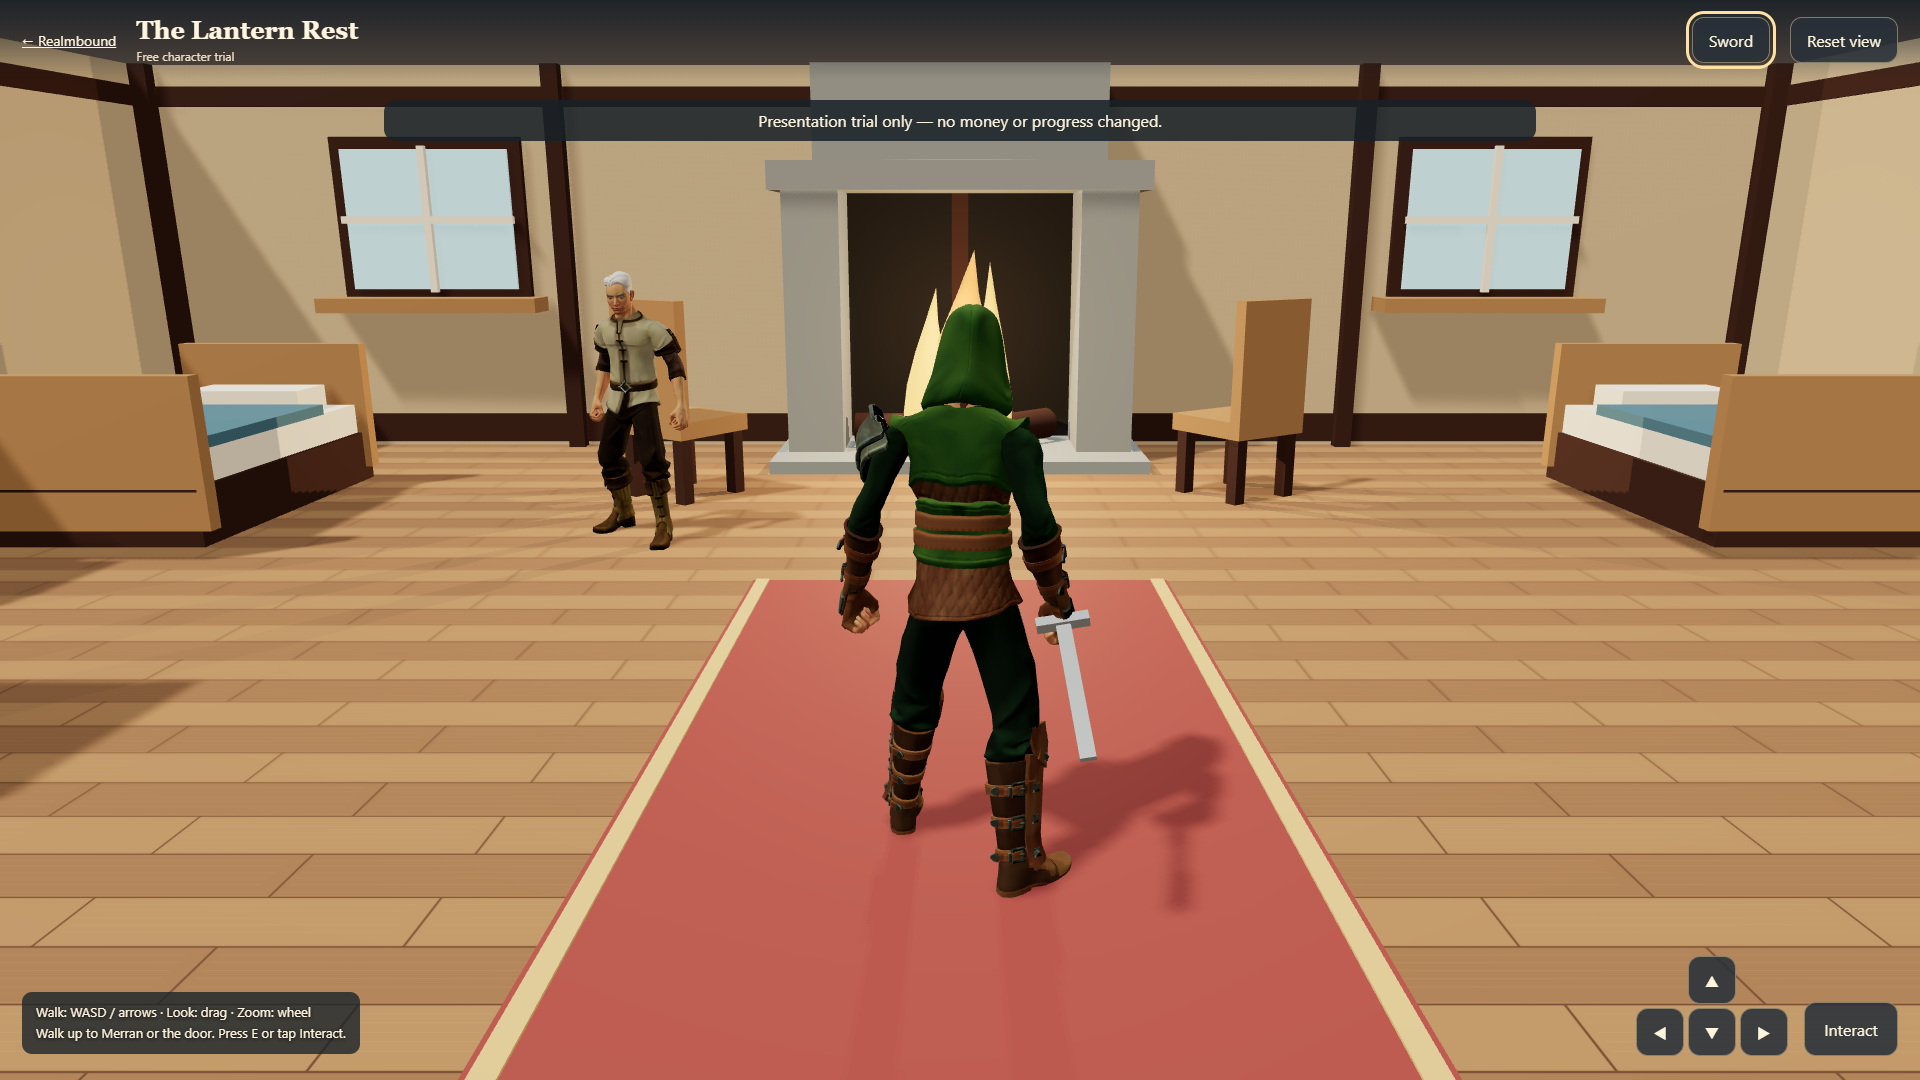
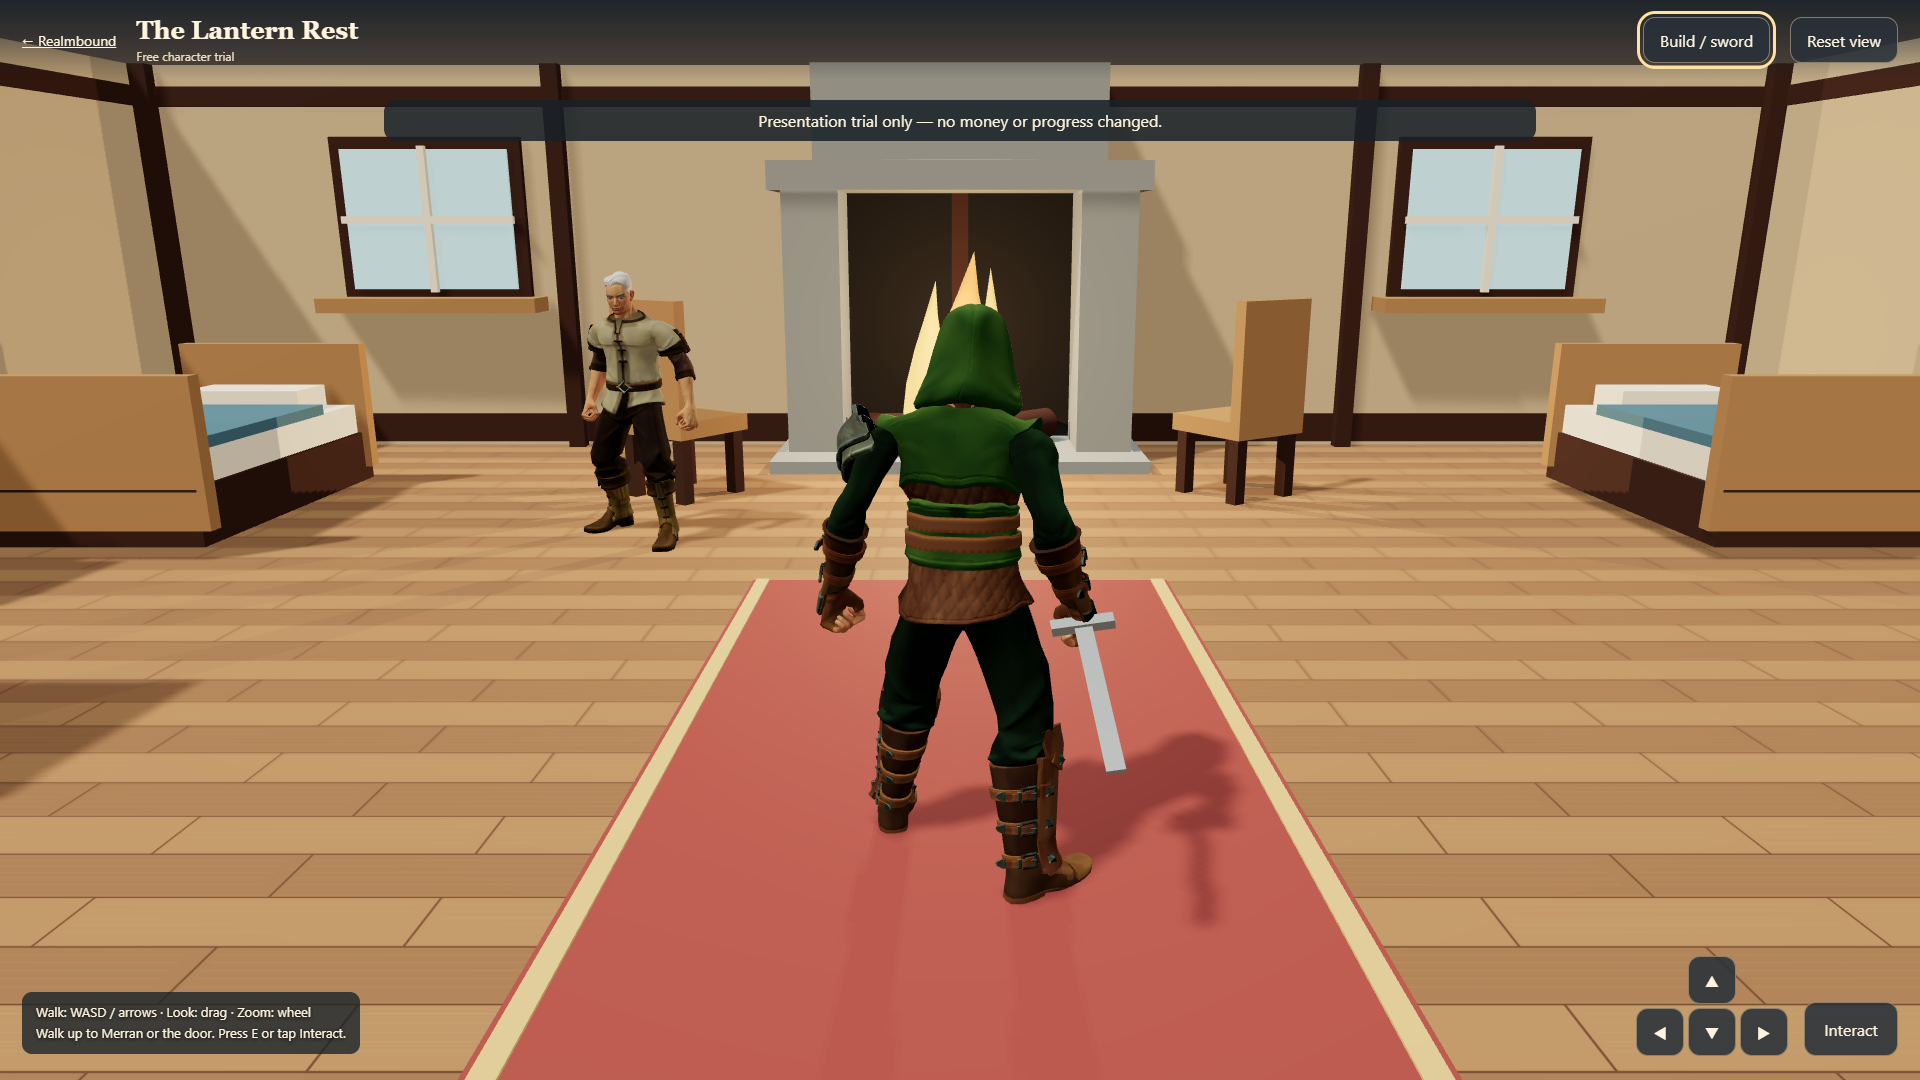
Compare broader character proportions at unchanged height

Changed region(s): [[0.4062, 0.275, 0.6562, 0.8556], [0.2812, 0.275, 0.375, 0.5194], [0.8438, 0.0, 0.9062, 0.0611]]

diff --git a/experiments/realmbound-3d/asset-trial.js b/experiments/realmbound-3d/asset-trial.js
@@ -2,7 +2,7 @@
 (()=>{'use strict';
  if(new URLSearchParams(location.search).get('characters')!=='quaternius')return;
  const T=window.THREE,loader=new T.GLTFLoader(),base='assets/quaternius/';
- const api=window.RealmTrialAssets={ready:false,error:null,actors:[],update(dt,reduced,walking,talking){for(const a of this.actors){const name=a.keeper?(talking?'Idle_Talking_Loop':'Idle_Loop'):(walking?'Walk_Loop':'Idle_Loop');if(name!==a.current){const next=a.actions[name];if(next){next.reset().fadeIn(.18).play();if(a.current)a.actions[a.current].fadeOut(.18);a.current=name;}}a.mixers.forEach(m=>m.update(reduced?0:dt));}}};
+ const api=window.RealmTrialAssets={ready:false,error:null,actors:[],build:"broad",setBuild(build){if(!["original","broad"].includes(build))return;this.build=build;for(const a of this.actors)a.outfit.scale.set(build==="broad"?1.18:1,1,build==="broad"?1.12:1);},update(dt,reduced,walking,talking){for(const a of this.actors){const name=a.keeper?(talking?'Idle_Talking_Loop':'Idle_Loop'):(walking?'Walk_Loop':'Idle_Loop');if(name!==a.current){const next=a.actions[name];if(next){next.reset().fadeIn(.18).play();if(a.current)a.actions[a.current].fadeOut(.18);a.current=name;}}a.mixers.forEach(m=>m.update(reduced?0:dt));}}};
  function headOnly(scene){scene.traverse(m=>{if(!m.isSkinnedMesh||!m.name.includes('SuperHero'))return;const geo=m.geometry.clone(),idx=geo.index,ji=geo.attributes.skinIndex,jw=geo.attributes.skinWeight,keep=[];function head(i){let w=0;for(let k=0;k<4;k++){const j=ji.array[i*4+k];if(['Head','neck_01'].includes(m.skeleton.bones[j]?.name))w+=jw.array[i*4+k];}return w>.65;}for(let i=0;i<idx.count;i+=3){const a=idx.getX(i),b=idx.getX(i+1),c=idx.getX(i+2);if(head(a)&&head(b)&&head(c))keep.push(a,b,c);}geo.setIndex(keep);m.geometry=geo;});}
  async function load(){const r=window.__rb3d;if(!r){setTimeout(load,20);return;}document.querySelector('#loading').hidden=false;document.querySelector('#loading').textContent='Trying the new travellers…';try{
  const [ranger,peasant,head1,head2,hair1,hair2,animations]=await Promise.all(['Male_Ranger.glb','Male_Peasant.glb','Base_Male.glb','Base_Male.glb','Hair.glb','Hair.glb','Animations.glb'].map(f=>loader.loadAsync(base+f)));
@@ -15,9 +15,9 @@
   original.children.forEach(c=>c.visible=false);original.add(visual);visual.scale.setScalar(.93);visual.rotation.y=0;
   const actionGroups={};for(const [n,aa]of Object.entries(actions))actionGroups[n]={reset(){aa.forEach(a=>a.reset());return this;},fadeIn(t){aa.forEach(a=>a.fadeIn(t));return this;},fadeOut(t){aa.forEach(a=>a.fadeOut(t));return this;},play(){aa.forEach(a=>a.play());return this;}};
   const hand=outfit.scene.getObjectByName('hand_r'),weapon=new T.Group();weapon.name='trial-held-sword';if(hand){hand.add(weapon);weapon.rotation.set(Math.PI/2,0,0);weapon.position.set(0,.035,0);const steel=new T.MeshStandardMaterial({color:0xb7c8ce,metalness:.6,roughness:.35}),leather=new T.MeshStandardMaterial({color:0x604332});for(const [g,m,y]of [[new T.BoxGeometry(.045,.5,.015),steel,-.29],[new T.BoxGeometry(.16,.035,.035),steel,-.035],[new T.CylinderGeometry(.025,.025,.12,8),leather,.045]]){const p=new T.Mesh(g,m);p.position.y=y;p.castShadow=true;weapon.add(p);}weapon.visible=!keeper;}
-  api.actors.push({keeper,visual,mixers,actions:actionGroups,current:null,weapon,outfit:outfit.scene,head:head.scene});
+  actionGroups.Idle_Loop.play();mixers.forEach(m=>m.update(0));api.actors.push({keeper,visual,mixers,actions:actionGroups,current:'Idle_Loop',weapon,outfit:outfit.scene,head:head.scene});
  }
- api.ready=true;const button=document.querySelector('#outfits');button.textContent='Sword';button.setAttribute('aria-label','Show or hide sword');button.setAttribute('aria-pressed','true');button.onclick=()=>{api.actors[0].weapon.visible=!api.actors[0].weapon.visible;button.setAttribute('aria-pressed',String(api.actors[0].weapon.visible));};document.querySelector('header span').textContent='Free character trial';document.querySelector('#loading').hidden=true;
+ api.setBuild(new URLSearchParams(location.search).get('build')==='original'?'original':'broad');api.ready=true;const button=document.querySelector('#outfits');button.textContent='Build / sword';button.setAttribute('aria-label','Compare character builds or show and hide sword');button.onclick=()=>{if(r.state.dialogue)return;r.dialogue.play([['Merran','Try the two builds here. Your height stays the same.']],i=>{if(i===0)api.setBuild('broad');if(i===1)api.setBuild('original');if(i===2)api.actors[0].weapon.visible=!api.actors[0].weapon.visible;},{choices:['Broader build','Original build','Show / hide sword']});};document.querySelector('header span').textContent='Free character trial';document.querySelector('#loading').hidden=true;
  }catch(e){api.error=String(e);document.querySelector('#loading').textContent='Character comparison could not load. Reload without ?characters=quaternius for the original trial.';console.error(e);}}
  load();
 })();

diff --git a/experiments/realmbound-3d/assets/quaternius/README.md b/experiments/realmbound-3d/assets/quaternius/README.md
@@ -20,3 +20,6 @@ Male Ranger and Peasant outfits, the free Superhero male head/eyes/eyebrows, Sim
 These have far better human anatomy, clothing construction and skeletal movement than our procedural trial people. They are a credible starting point for the intended grounded stylized direction. Confirm the look with Evan in motion before buying. The $20 full outfit tier adds the armour/mage/noble range; the $19.99 expanded base tier adds Regular/Teen models and source files. Paid tiers have not been downloaded or tested. More purchases will not remove the work of equipment fitting, class silhouettes, expressions and animation blending.
 
 Tests: `node tests/realmbound-3d-assets.cjs http://localhost:8766`. Screenshots in docs/screenshots/realmbound-3d. Real frame-rate/performance on Evan's PC still needs playtesting; headless rendering does not establish that.
+
+## Proportion comparison (Evan, 2026-10-10)
+The default imported build now widens each clothed outfit/skeleton by 18% and adds 12% depth, preserving vertical scale and the separate head/hair dimensions. The weapon follows the broadened hand skeleton. This is a reversible whole-body proportion preview, not a sculpted anatomy or armour-fitting pass. The in-world Build / sword menu selects Broader build or Original build; ?characters=quaternius&build=original opens the previous proportions directly. Fixed-pose measured shoulder span grew from .355m to .417m, with identical head and foot elevations. Front/profile before-after and broad in-room screenshots use the same camera and pose. Reduced-motion startup now evaluates an idle pose before freezing, avoiding a T-pose.

diff --git a/docs/COMMS.md b/docs/COMMS.md
@@ -36,6 +36,11 @@ from each ticket go in DEVELOPMENT-PATH.md Part 4 (a line each).
 
 ## Messages
 
+### 2026-10-10, Codex to all
+Evan found the imported people scrawny. PR #159 now defaults to a reversible broader build (18% width, 12% depth, unchanged height and face proportions); Build / sword compares both in-world. Matched-pose evidence is in docs/screenshots/realmbound-3d/build-*.png. Measured shoulders .355m -> .417m; head/foot elevations unchanged. Reduced-motion initial T-pose fixed. No paid assets, Godot, live-game or save edits.
+
+
+
 ### 2026-10-10 16:10, Codex to all
 Evan asked to try the free Quaternius characters before deciding on the ~$40 expanded packs. PR #159 now has an opt-in `experiments/realmbound-3d/?characters=quaternius` comparison: CC0 Ranger/Peasant bodies, extracted free male head, rigged hair, authored idle/walk/talk, bone-mounted sword. Credits/licence and reproducible compact GLB packing are in its assets/quaternius folder. No purchase, live game/save/Godot changes. The free base is Superhero, not Regular; paid content remains untested. Compare these in motion before buying; keep future gear fitting separate. Existing 17 suites and original 146 trial checks pass; new asset integration checks cover motion, weapon attachment, reduced motion, save isolation and three sizes.
 

diff --git a/START-HERE.md b/START-HERE.md
@@ -105,6 +105,8 @@ out, the ticket factory in [docs/DEVELOPMENT-PATH.md](docs/DEVELOPMENT-PATH.md) 
 
 ## Session log (newest first; one or two lines each)
 
+- **2026-10-10, Codex:** PR #159: broader imported-character build at unchanged height/head size, reversible comparison menu, matched front/profile/room evidence and reduced-motion startup fix. No purchases or production changes.
+
 - **2026-10-10, Codex:** PR #159 now includes an opt-in free Quaternius CC0 rigged-character comparison in the 3D inn, with authored walking/talking and bone-mounted sword. No purchase or live game/save/Godot changes; 17 suites and original 146 trial checks pass; dedicated imported-asset checks and screenshots included.
 
 - **2026-10-10, Codex:** RB1.9: isolated third-person 3D Realmbound inn trial, PR #159. Plan in docs/proposals/realmbound-3d.md; all 17 suites and 146 dedicated checks pass; jointed characters, planted feet, conversation facing and modular eight-slot equipment previews added; asset upgrade contract recorded. No live game, saves, versions or Godot edits.
